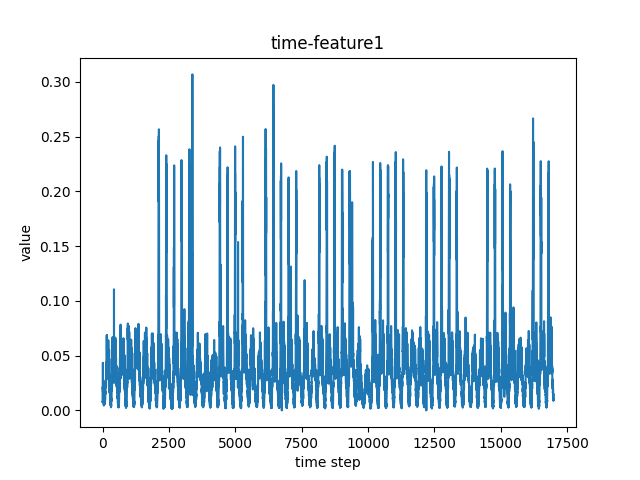
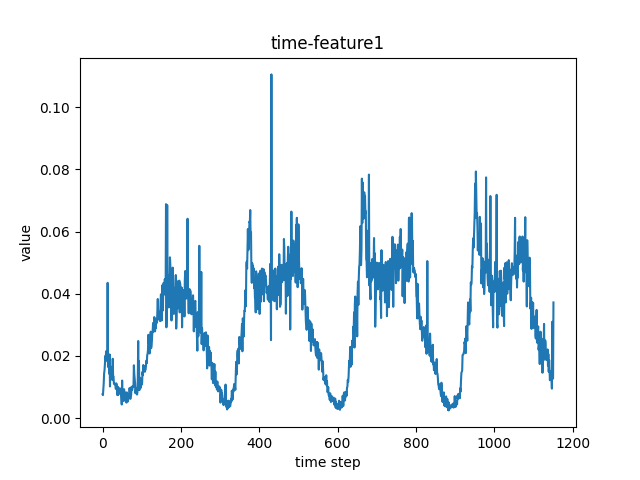
fix model file and analysis file

diff --git a/models/stacgin.py b/models/stacgin.py
@@ -233,6 +233,13 @@ class STACGINBlock(nn.Module):
         # 层归一化
         self.layer_norm = nn.LayerNorm(time_channels)
 
+        # 时间注意力后的层归一化
+        self.spatial_layer_norm = nn.LayerNorm(in_channels)
+
+        # 空间注意力后的层归一化
+        self.temporal_layer_norm = nn.LayerNorm(in_channels)
+
+
     def forward(self, x_matrix):
         """
         前向传播函数
@@ -251,15 +258,29 @@ class STACGINBlock(nn.Module):
             temporal_att
         ).reshape(batch_size, vertices_num, features_num, time_step_num)
 
+        # 时间注意力后的残差连接与层归一化
+        # 动态变化过程 (B, N, F, T) -permute-> (B, N, T, F)
+        # (B, N, T, F) -layer_norm-> (B, N, T, F) -permute-> (B, N, F, T)
+        x_mat_t_att_norm = self.temporal_layer_norm(
+            x_mat_t_att.permute(0, 1, 3, 2) + x_matrix.permute(0, 1, 3, 2)
+        ).permute(0, 1, 3, 2)
+
         # 计算空间注意力，与时间注意力同理
-        spatial_att = self.SAtt(x_mat_t_att)  # (B, N, N)
+        spatial_att = self.SAtt(x_mat_t_att_norm)  # (B, N, N)
         x_mat_s_att = torch.matmul(
             spatial_att,
-            x_mat_t_att.reshape(batch_size, vertices_num, -1)
+            x_mat_t_att_norm.reshape(batch_size, vertices_num, -1)
         ).reshape(batch_size, vertices_num, features_num, time_step_num)
 
+        # 空间注意力后的残差连接与层归一化
+        # 动态变化过程 (B, N, F, T) -permute-> (B, N, T, F)
+        # (B, N, T, F) -layer_norm-> (B, N, T, F) -permute-> (B, N, F, T)
+        x_mat_s_att_norm = self.spatial_layer_norm(
+            x_mat_t_att_norm.permute(0, 1, 3, 2) + x_mat_s_att.permute(0, 1, 3, 2)
+        ).permute(0, 1, 3, 2)
+
         # GIN 空间卷积
-        x_mat_cheb_conv = self.SpatialConv(x_mat_s_att)  # (B, N, spatial_channels, T)
+        x_mat_cheb_conv = self.SpatialConv(x_mat_s_att_norm)  # (B, N, spatial_channels, T)
 
         # 时间卷积
         x_mat_time_conv = self.TimeConv(x_mat_cheb_conv.permute(0, 2, 1, 3))  # (B, N, time_channels, T)

diff --git a/analysis/pems04/pems04_feature.py b/analysis/pems04/pems04_feature.py
@@ -7,7 +7,7 @@ if __name__ == '__main__':
     all_time_data = npz_data['data']
 
     # 1-plot [one node, all feature, all time] figure
-    single_node_data = all_time_data[:, 0, :]
+    single_node_data = all_time_data[:4 * 24 * 12, 0, :]
     print(single_node_data.shape)
     plt.title('time-feature0')
     plt.plot([i for i in range(single_node_data.shape[0])], single_node_data[:, 0])

diff --git a/analysis/pems04/pems04_graph.py b/analysis/pems04/pems04_graph.py
@@ -22,8 +22,8 @@ if __name__ == '__main__':
         degree_count.append(y_data.count(i))
         degree_val.append(i)
     plt.bar(degree_val, degree_count)
-    plt.xlabel('node id')
-    plt.ylabel('degree')
+    plt.xlabel('degree')
+    plt.ylabel('node count')
     plt.savefig('./plot_feature/node_distribution.png')
     plt.close()
 
